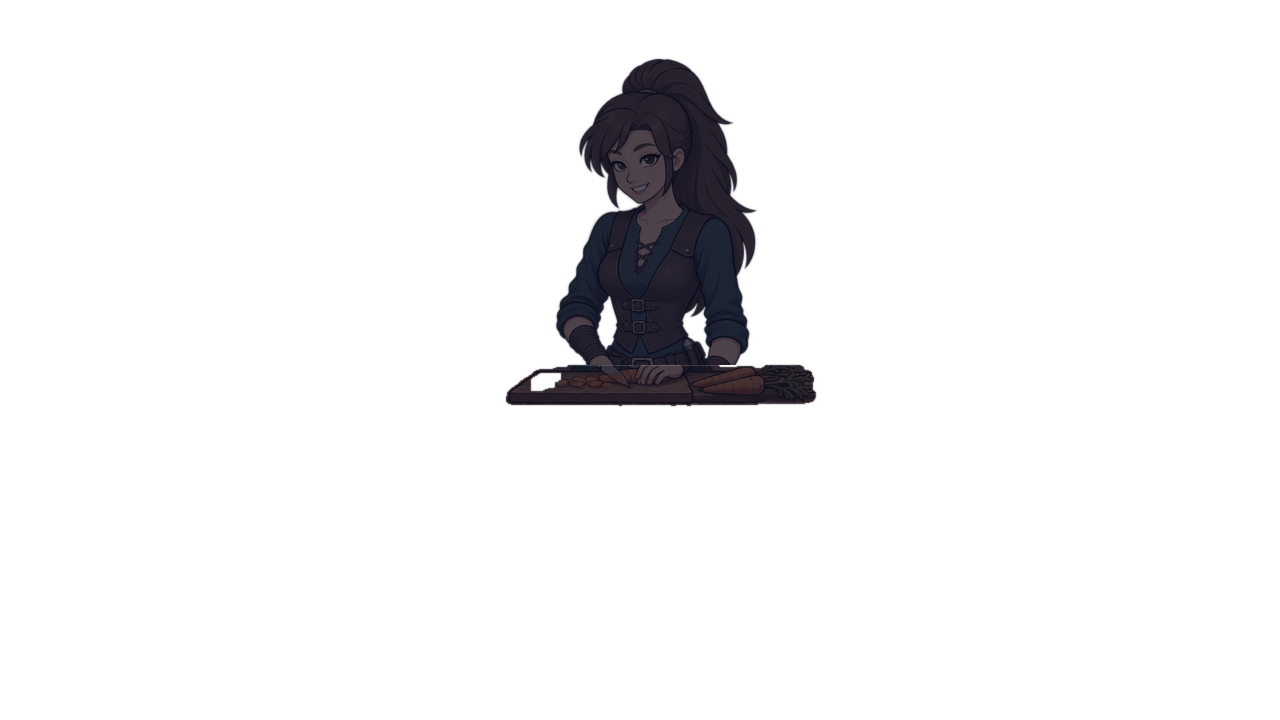
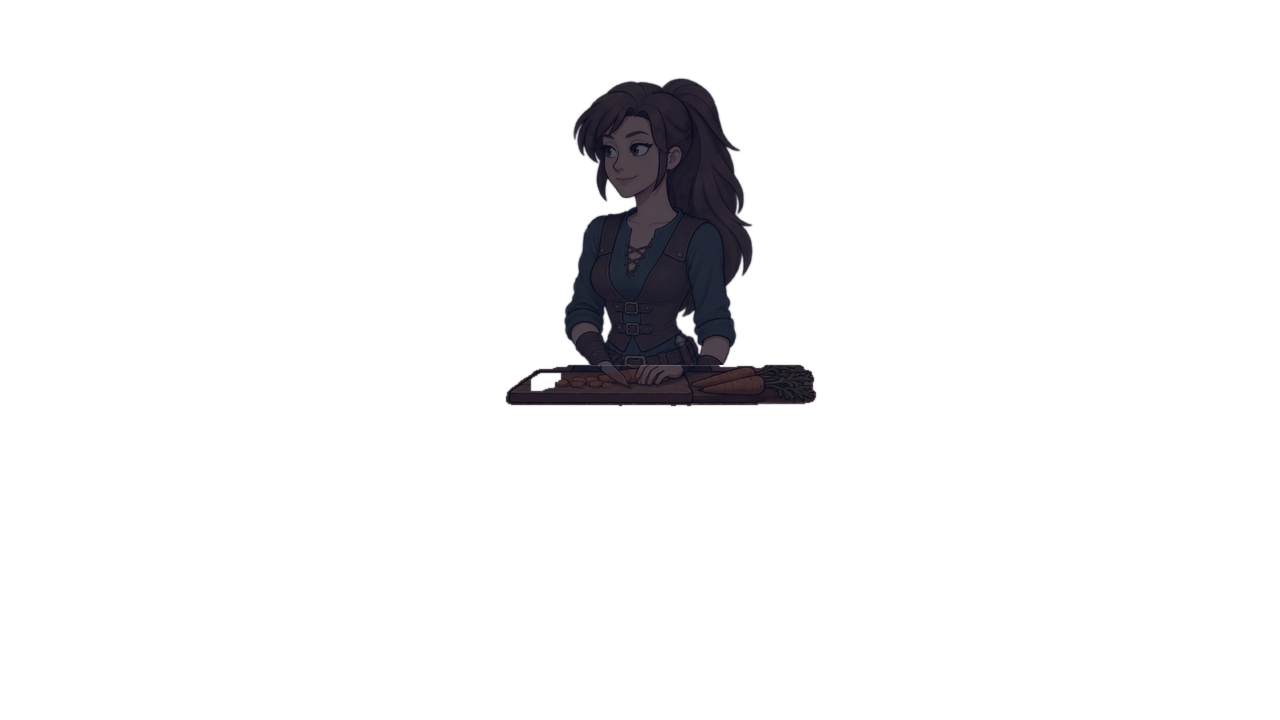
Keep in-scene NPC faces identical to their dialogue pictures and clean transparent-background haze
- busy poses redrawn by editing each character's dialogue picture (only arms, hands and props change),
  so eye shape, eye size, hair rendering and head-to-body ratio match the dialogue sprite
- look state no longer AI-drawn: the dialogue picture's face is registered and pasted onto the busy pose (look_from: profile)
- shop Pip no longer drifts to a child face (the old pose had been used as his design reference)
- tools/cutout.py removes the semi-transparent haze the image server leaves around "transparent" outputs,
  using an anime background-removal model while keeping the original soft edges
- docs: new rules, failure log entries and image ids

Claude-Session: https://claude.ai/code/session_01WFgBYsqnPjwxzhWx9BLhU6

diff --git a/mosshill/tools/art_pipeline.py b/mosshill/tools/art_pipeline.py
@@ -288,7 +288,11 @@ def do_object(raw):
 ## RAW/<장소>.png                    배경 원본 (인물 없음)
 ## RAW/scene_<장소>_<인물>_busy.png  1) 배경에 인물을 함께 그린 그림 — 크기·위치·색감의 기준
 ## RAW/pose_<장소>_<인물>_busy.png   2) 1) 을 견본으로 인물만 크게 (1024x1536 투명) — 하던 일을 보는 모습
-## RAW/pose_<장소>_<인물>_look.png   2) 에서 눈·입만 바꿔 앞(카메라)을 보는 모습
+## RAW/pose_<장소>_<인물>_look.png   2) 에서 눈·입만 바꿔 앞(카메라)을 보는 모습 (look_from 이 "profile" 이면 안 씀)
+## 얼굴이 대화 그림과 달라지지 않게 (look_from: "profile"):
+##   2) 는 '대화 그림'을 고칠 대상(1번)으로 넣고 팔·손·소품만 바꾼다 (1) 장면은 자세 견본으로만) → 머리 위치·크기가 그대로.
+##   앞을 보는 얼굴은 AI 로 그리지 않고 대화 그림(RAW/<인물>.png)의 얼굴 영역(CHARS face_box)을 맞춰 옮겨 붙인다.
+##   2) 의 투명 배경에 안개가 남으면 tools/cutout.py 로 먼저 정리한다.
 ## tools/art_scenes.json 의 place:
 ##   ref       1) 에서 인물이 있는 곳 다각형 (화면 1280x720 좌표) — 이 안에서 배경과 다른 곳 = 인물 실루엣
 ##   cut       이 y 아래는 가구(바·식탁·계산대) 뒤라 안 보임 (없으면 null) — 가구 윗면의 '뒤쪽' 끝.
@@ -378,11 +382,12 @@ def fit_to(sil, char, cut, upper=0.6):
     return best
 
 
-def look_from_busy(busy, look):
-    """look 그림에서 머리 쪽(테두리 상자 위 45%)의 달라진 곳만 busy 에 합친다 → 바뀔 때 몸이 흔들리지 않는다"""
+def look_from_busy(busy, look, box=None):
+    """look 그림에서 머리 쪽의 달라진 곳만 busy 에 합친다 → 바뀔 때 몸이 흔들리지 않는다.
+    box 가 없으면 테두리 상자 위 45%, 있으면 그 상자(얼굴 영역) 안만."""
     x0, y0, x1, y1 = busy.getchannel("A").point(lambda v: 255 if v > 16 else 0).getbbox()
-    head = (x0, y0, x1, y0 + int((y1 - y0) * 0.45))
-    d, s, dx, dy = register(busy, look, (head[0], head[1], head[2], head[3] + 60))
+    head = box or (x0, y0, x1, y0 + int((y1 - y0) * 0.45))
+    d, s, dx, dy = register(busy, look, (head[0], head[1], head[2], head[3] + (0 if box else 60)))
     look = place(look, s, dx, dy)
     area = Image.new("L", busy.size, 0)
     ImageDraw.Draw(area).rectangle(head, fill=255)
@@ -455,9 +460,16 @@ def do_scene(raw):
         if loc.startswith("_"):
             continue
         for who, s in chars.items():
-            pose = {st: Image.open(os.path.join(raw, "pose_%s_%s_%s.png" % (loc, who, st))).convert("RGBA")
-                    for st in SCENE_STATES}
-            pose["look"] = look_from_busy(pose["busy"], pose["look"])
+            pose = {"busy": Image.open(os.path.join(raw, "pose_%s_%s_busy.png" % (loc, who))).convert("RGBA")}
+            if s.get("look_from") == "profile":
+                ## 대화 그림(원본 몸)의 얼굴을 그대로 옮긴다 → 장소 안에서 마주 보는 얼굴이 대화 그림과 똑같다.
+                ## busy 는 대화 그림을 고쳐 팔·소품만 바꾼 그림이라 머리 위치·크기가 같다
+                fb = CHARS[who]["face_box"]
+                prof = Image.open(os.path.join(raw, who + ".png")).convert("RGBA")
+                pose["look"] = look_from_busy(pose["busy"], prof, (fb[0] - 30, fb[1] - 30, fb[2] + 30, fb[3] + 30))
+            else:
+                look = Image.open(os.path.join(raw, "pose_%s_%s_look.png" % (loc, who))).convert("RGBA")
+                pose["look"] = look_from_busy(pose["busy"], look)
             pl = s["place"]
             bg = screen_of(os.path.join(raw, loc + ".png"))
             ref = screen_of(os.path.join(raw, "scene_%s_%s_busy.png" % (loc, who)))

diff --git a/mosshill/tools/cutout.py b/mosshill/tools/cutout.py
@@ -1,0 +1,42 @@
+"""AI 가 '투명 배경'으로 그렸는데 인물 주변에 반투명 안개(회색·검은 얼룩)가 남은 그림을 정리한다.
+
+이미지 서버의 투명 배경 출력은 가끔 안개를 남긴다 (게임에서 인물 옆 검은 자국이 됨).
+애니메이션 그림체 전용 배경 제거 모델(rembg 의 isnet-anime)로 인물 모양을 찾고,
+원래 투명도(부드러운 경계)는 그대로 둔 채 그 모양 밖의 안개만 지운다.
+
+준비 (한 번만, 모델 약 170MB 는 처음 실행할 때 내려받는다):
+    python3 -m venv ~/rembg_env && ~/rembg_env/bin/pip install "rembg[cpu]"
+사용:
+    ~/rembg_env/bin/python tools/cutout.py <원본폴더>/pose_tavern_martha_busy.png ...
+원래 파일은 <이름>_hazy.png 로 남긴다 (이미 있으면 덮어쓰지 않음).
+"""
+import os
+import sys
+
+from PIL import Image, ImageChops, ImageFilter
+from rembg import new_session, remove
+
+
+def clean(path, session):
+    base, ext = os.path.splitext(path)
+    hazy = base + "_hazy" + ext
+    src = hazy if os.path.exists(hazy) else path
+    im = Image.open(src).convert("RGBA")
+    if not os.path.exists(hazy):
+        im.save(hazy)
+    flat = Image.new("RGBA", im.size, (255, 255, 255, 255))     # 안개를 흰 바탕에 눌러서 모델에 준다
+    flat.alpha_composite(im)
+    shape = remove(flat.convert("RGB"), session=session, post_process_mask=True).getchannel("A")
+    gate = shape.filter(ImageFilter.MaxFilter(5)).filter(ImageFilter.GaussianBlur(1.5))   # 경계 2px 여유
+    out = im.copy()
+    out.putalpha(ImageChops.multiply(im.getchannel("A"), gate))
+    out.save(path)
+    print("cutout", os.path.basename(path))
+
+
+if __name__ == "__main__":
+    if len(sys.argv) < 2:
+        sys.exit(__doc__)
+    s = new_session("isnet-anime")
+    for p in sys.argv[1:]:
+        clean(p, s)

diff --git a/mosshill/tools/art_recipes.md b/mosshill/tools/art_recipes.md
@@ -41,8 +41,8 @@
 | 표정 | 그 인물 몸 | (2) 루비 = 화풍 — 얼굴 크기·위치는 1번 그대로 |
 | 배경 | 길드 홀 | (2) 루비 = 화풍 |
 | 장소 안 인물 1) 장면 | 그 장소 배경 | (2) 그 인물 몸 = 얼굴·옷 (3) 카이 = 그림체 — 배경에 인물을 함께 그림 (자세·위치 기준). 프롬프트에 **가구 높이와 키를 cm 로** 쓴다. 그래도 AI 는 인물을 1.4~2배 크게 그리므로 `art_scenes.json` 의 `check` 로 재고 `scale` 로 줄인다 |
-| 장소 안 인물 2) '하던 일' | 1) 장면 | (2) 그 인물 몸 (3) 카이 — **1) 의 인물만** 같은 자세·비율로 크게, 배경·가구 없이 (투명) |
-| 장소 안 인물 '앞을 봄' | 2) 그림 | (2) 그 인물 몸 — 눈·입만 바꾼다. **정밀 모드(precision)** 로 (보통 모드는 고개를 돌려 버린다) |
+| 장소 안 인물 2) '하던 일' | **그 인물의 대화 그림** (얼굴·머리카락·비율을 지키는 대상) | (2) 1) 장면 또는 예전 그림 = 자세·동작만 ('얼굴·눈·머리카락·비율은 따라 하지 말 것'). 머리는 그대로 두고 팔·손·소품만 바꾸고, 시선만 하던 일 쪽으로. 앉은 자세도 '머리 크기·위치는 그대로, 몸은 그 아래에' |
+| 장소 안 인물 '앞을 봄' | 그리지 않는다 | 대화 그림의 얼굴(CHARS face_box)을 가공 단계가 그대로 옮겨 붙인다 (`look_from: profile`) |
 | 적·아이템 | 루비 | (2) 배경 1장 = 색감 |
 
 ## 3. 프롬프트 틀 (영어로, 빠짐없이)
@@ -91,6 +91,8 @@
 | '앞을 봄' 그림에서 고개가 정면으로 돌아감 | 보통 모드가 머리를 다시 그림 | 정밀 모드 + '머리 그대로, 눈동자와 입만' |
 | 가구 위 도마가 식탁 앞 모서리에 얇은 선처럼 보이고 칼이 식탁에 박힌 것 같음 | 단독 그림(2)은 눈높이에서 그려서 도마가 옆모습. 배경은 위에서 내려다본 원근 | `show_from_scene`: 가구 윗면 아래(show 안)는 1) 장면의 손·도구 픽셀을 쓴다 — 배경과 같은 원근 |
 | '앞을 봄' 그림 투명 배경에 옅은 얼룩 → 머리 옆 검은 자국 | 정밀 모드 결과의 투명 배경이 완전히 투명하지 않음 | 가공에서 몸 그림이 불투명한 곳 안에서만 합친다 (`look_from_busy`) |
+| 장소 안 인물의 눈매·눈 크기·머리카락 표현이 대화 그림과 다름 (잡화점 핍은 아이처럼 됨) | 2) 를 1) 장면(배경 속 작게 뭉개진 얼굴)을 보고 새로 그림 → 복사본의 복사본. 핍은 견본으로 대화 그림 대신 예전 장면 그림을 넣음 | 2) 는 **대화 그림을 고칠 대상(1번)으로** 넣고 팔·손·소품만 바꾼다. 앞을 보는 얼굴은 대화 그림에서 옮겨 붙인다 (`look_from: profile`) |
+| '투명 배경'으로 그렸는데 인물 주변에 반투명 안개(회색·검은 얼룩), 일부는 불투명 | 이미지 서버의 투명 배경 출력이 불안정 | `tools/cutout.py` (애니메이션용 배경 제거 모델 isnet-anime) 로 인물 모양 밖 안개만 지운다. 원래 경계의 부드러운 투명도는 유지 |
 | 영역 지정(마스크) 편집 실패 | 이미지 서버가 마스크를 거부 ("Invalid image data") | 마스크 없이 "~만 바꿔"로 그리고 `art_pipeline.py` 가 바뀐 곳만 오린다 |
 
 ## 5. 지금 게임에 들어간 그림의 원본 id (2026-11-17)
@@ -105,6 +107,7 @@
 | 장소 인물 2) 하던 일 / 앞을 봄 — 부엌 루비 (예전 넓은 배경판, 도마·당근 포함) | `img_mwk7pc09G7ElWjcv` / `img_mwk7q63yNWNOkHvU` |
 | 부엌 배경 (예전 넓은 판, 식탁 위 채소 치운 것) | `img_mwk7p1h5vMRQxjDf` — 새 부엌 배경의 1번 견본으로 씀 |
 | 길드 홀 루비 | `img_mwk6o5dzKhYphXZU` / `img_mwk6yuuuSZxYZcY3` |
+| 장소 안 인물 2) 하던 일 — 대화 그림을 고친 판 (지금 쓰는 것): 선술집 마르타 / 부엌 루비 / 홀 루비 / 잡화점 핍 / 광장 핍 | `img_mwlrlsaqYfMcFXEL` / `img_mwlrm2l4cwVHQJMt` / `img_mwlrmeckxxxaUxFy` / `img_mwlrix6yHwRgeGRn` / `img_mwlrmnsx7VHiRsXv` (모두 cutout 처리, 앞을 봄 = 대화 그림 얼굴) |
 | 선술집 마르타 (가까운 배경판) — 1) 장면 / 2) 하던 일 / 앞을 봄 | `img_mwkevd8k42sjW1jn` / `img_mwkewnqqXXwNxBNb` / `img_mwkeyo6bqUR647Bs` (scale 0.66) |
 | 잡화점 핍 (가까운 배경판, 금화를 눈앞에 들고 살핌) — 1) 장면 / 2) 하던 일 / 앞을 봄 | `img_mwkf5ohi9lqOiGCF` / `img_mwkf7ariy6pdxx7U` / `img_mwkf8fifRo3DwyRV` (scale 0.74) |
 | 선술집 마르타 (예전 넓은 배경판) | `img_mwk6oedcaIUMwko8` / `img_mwk6z55aHqkz4brz` |

diff --git a/mosshill/README.md b/mosshill/README.md
@@ -99,6 +99,9 @@ python3 tools/art_pipeline.py <원본폴더> object    # 클릭 모양만 (tools
   배경을 가구 가까이 잡아 다시 그렸다 — 멀리서 넓게 잡은 배경에 실제 비율로 넣으면 얼굴이 뭉개진다.
   가구 위에 놓인 도구(부엌 도마)는 배경과 같이 그린 장면 그림의 픽셀을 써서 원근을 맞춘다(`show_from_scene`).
   하던 일(`busy`)과 눈만 들어 앞을 보는 모습(`look`) 두 장 — 장소에 들어가면 busy 에서 look 으로 바뀐다.
+  **얼굴을 대화 그림과 똑같이:** 하던 일 그림은 대화 그림을 고쳐 팔·손·소품만 바꾸고(머리 위치·크기 그대로),
+  앞을 보는 얼굴은 대화 그림의 얼굴을 위치를 맞춰 그대로 옮겨 붙인다(`look_from: profile`).
+  투명 배경으로 생성해도 인물 주변에 안개가 남는 경우가 있어 `tools/cutout.py`(배경 제거 모델)로 정리한다.
 - 밤(저녁·밤)에는 인물에도 푸른 색조를 입힌다 (`motions.rpy` 의 `light_matrix`).
 - 마우스를 올리면 색을 몇 배로 곱해 밝힌다 (밝기를 더하면 밤 그림이 뿌옇게 뜸, `location.rpy` 의 `hover_matrix`).
 
